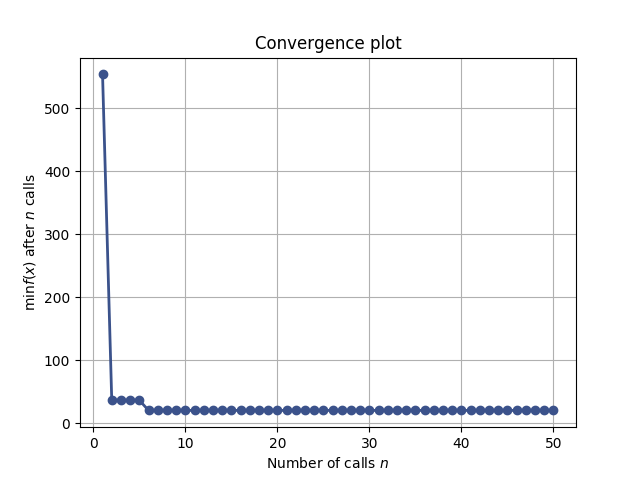
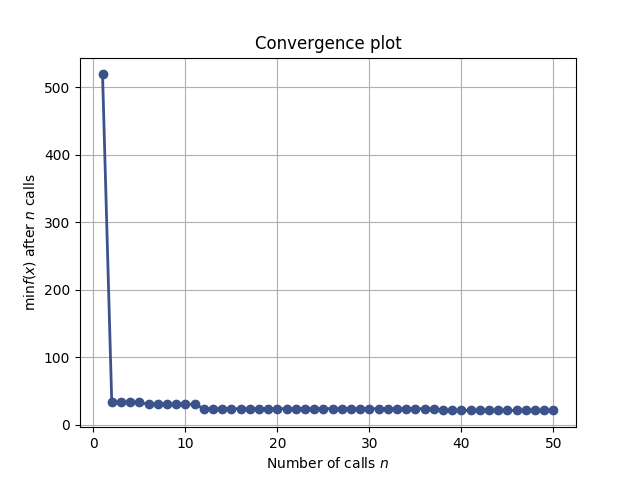
GP min to generate model

diff --git a/applications/thermal_fin/gp_min_keras.py b/applications/thermal_fin/gp_min_keras.py
@@ -72,41 +72,36 @@ def parametric_model(activation, optimizer, lr, n_hidden_layers, n_weights, batc
     vmape = history.history['val_mean_absolute_percentage_error'][-1]
     #  tr_losses = history.history['mean_absolute_percentage_error']
     #  vmapes = history.history['val_mean_absolute_percentage_error']
-    #  plt.plot(tr_losses)
-    #  plt.plot(vmapes)
-    #  plt.legend(["Mean training error", "Mean validation error"])
-    #  plt.xlabel("Epoch", fontsize=14)
-    #  plt.ylabel("Absolute percentage error", fontsize=14)
-    #  plt.show()
-    #  plt.plot(errors_val)
-    #  plt.plot(model.predict(z_val), 'k-x')
-    #  plt.legend(['True error','Predicted error'])
-    #  plt.ylabel('Error in average temperature y - y_r', fontsize=14)
-    #  plt.xlabel('Validation dataset index', fontsize=14)
-    #  plt.show()
+    #  plt.semilogy(tr_losses[200:])
+    #  plt.semilogy(vmapes[200:])
+    #  plt.legend(["Mean training error", "Mean validation error"], fontsize=10)
+    #  plt.xlabel("Epoch", fontsize=10)
+    #  plt.ylabel("Absolute percentage error", fontsize=10)
+    #  plt.savefig("subfin_avg_tr_v_loss.png",dpi=250)
     return vmape, model
+    #  return vmape
 
 
 @use_named_args(space)
 def objective(**params):
     return parametric_model(**params)
 
-#res_gp = gp_minimize(objective, space, n_calls=50, random_state=0)
+#  res_gp = gp_minimize(objective, space, n_calls=50, random_state=0)
 
-#print("Best score: {}".format(res_gp.fun))
-#print('''Best parameters:\n
-#   Activation function: {}
-#   Optimizer: {}
-#   Learning rate: {}
-#   Num. hidden Layers: {}
-#   Num. weights: {}
-#   Batch size: {}
-#   Num. Epochs: {}'''.format(*res_gp.x))
+#  print("Best score: {}".format(res_gp.fun))
+#  print('''Best parameters:\n
+ #  Activation function: {}
+ #  Optimizer: {}
+ #  Learning rate: {}
+ #  Num. hidden Layers: {}
+ #  Num. weights: {}
+ #  Batch size: {}
+ #  Num. Epochs: {}'''.format(*res_gp.x))
 
-#plot_convergence(res_gp)
-#plt.savefig('plots/res_gp_conv.png')
+#  plot_convergence(res_gp)
+#  plt.savefig('plots/res_gp_conv.png')
 
 #vmape = parametric_model('relu', Adam, 0.0001, 6, 100, 10, 400)
-vmape, model = parametric_model('relu', Adam, 0.004, 6, 50, 150, 600)
+vmape, model = parametric_model('relu', Adam, 0.0012, 6, 58, 90, 400)
 model.save_weights('data/keras_model')
 print ('\nError: {:2.3f}%'.format(vmape))
